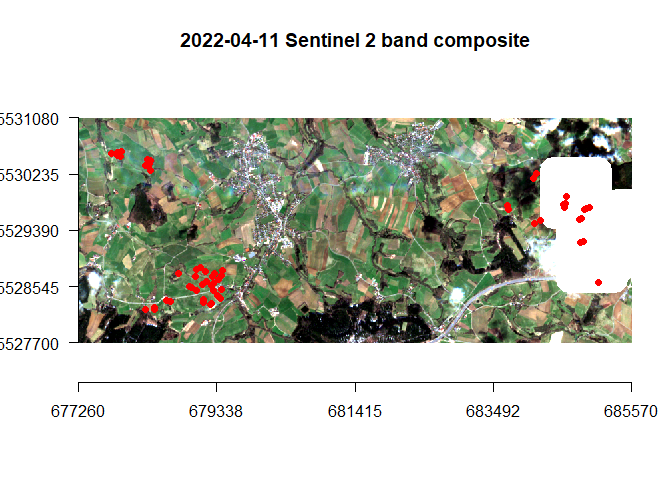
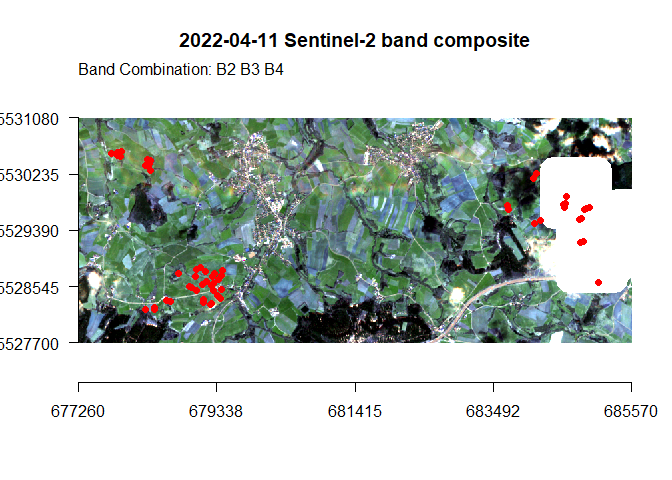
update readme

Changed region(s): [[0.0938, 0.2188, 0.9375, 0.7188], [0.25, 0.0625, 0.5625, 0.125], [0.0938, 0.125, 0.4375, 0.1562]]

diff --git a/README.md b/README.md
@@ -84,8 +84,8 @@ forest model.
 ``` r
 int.ts <- interpolate.ts(refl.df, plot.column = "plot_names") # interpolate missing values
 int.ts <- na.omit(int.ts)
-monthly_max.df <- comp_monthly(int.ts, date.column = "dat", stat = "min") # composite to monthly maximum reflectances
-monthly_max.df.piv <- pivot.df(monthly_max.df) # pivot the data into wide table
+monthly_min.df <- comp_monthly(int.ts, date.column = "dat", stat = "min") # composite to monthly minimum reflectances
+monthly_min.df.piv <- pivot.df(monthly_min.df) # pivot the data into wide table
 ```
 
 In the next step we take a look at the response variable: the
@@ -127,15 +127,16 @@ plt.band_composite(acq, bands = c("B2", "B3", "B4"), study_area, df = div.df, ad
 
     #> NULL
 
-The alpha diversity indices used are the species number, shannon and
-simpson index. Many studies have shown, that species number is the best
-response variable, therefore this alpha-diversity indice will be used in
-the following random forest model. The code to calculate these indices
-is provided in the `data-raw` folder.
+The alpha diversity indices calculated and provided in the `div.df` data
+frame are the species number, shannon and simpson index. Many studies
+have shown, that species number is the best response variable, therefore
+this alpha-diversity indice will be used in the following random forest
+model. The code to calculate these indices is provided in the `data-raw`
+folder in the div.df.R script.
 
 ## II. Train and Test Random Forest
 
-For the training, only the maximum reflectances from the months March to
+For the training, only the minimum reflectances from the months March to
 September are used. The winter months are influenced by clouds and snow
 and are limited by less plant growth/cover, which could potentially
 impact our results negatively.
@@ -144,8 +145,8 @@ impact our results negatively.
 s = 91
 biodiv_ind = "specn"
 
-m.nowinter <- c("03$", "04$", "05$", "06$","07$", "08$", "09$")
-data_frame.nowinter <- RF_predictors(monthly_max.df.piv, m.nowinter) # use only months from March to September
+m.nowinter <- c(3:9)
+data_frame.nowinter <- RF_predictors(monthly_min.df.piv, m.nowinter) # use only months from March to September
 rf_data <- preprocess_rf_data(data_frame.nowinter, div.df, biodiv_ind) # merge reflectance and alpha diversity dataframe
 
 train_index <- get_train_index(rf_data, s = s) # split samples into training and testing (70:30)
@@ -213,34 +214,45 @@ plt.varimp(forest)
 <img src="man/figures/README-Variable Importance-1.png" width="70%" />
 
 `plt.varimp` is an important function to evaluate the predictors
-according to their band, year and month. The SWIR bands and B4 and B5
-are the most important Sentinel-2 bands (A). March is by far the most
-important month in the prediction (D).
+according to their band, year and month. The SWIR bands and the bands in
+the visible domain are the most important Sentinel-2 bands (A). March is
+by far the most important month in the prediction (D).
 
 ## III. Spatial Prediction of Alpha-Diversity
 
 For the spatial prediction, all variables, that trained the random
 forest, need to be stacked to a spatial Raster, on which the species
 number can be predicted. In the case of the random forest trained with
-all summer months, the monthly maximum raster composites of all
+all summer months, the monthly minimum raster composites of all
 acquisitions from March until September 2022 and 2023 respectively need
 to be calculated first. Due to the limited storage capacity, these
 raster composites can’t be part of this package. The code to calculate
-these raster composites is provided in the `data-raw` folder. On
-request, we can make these composites available. The code to calculate
-spatial predictions is provided in the following.
+these raster composites is provided in the `data-raw` folder in the
+`comp.S2.bands.R` script. On request, we can make these composites
+available. The code to calculate spatial prediction maps is provided in
+the following.
 
 ``` r
 
-# select months as predictors 
-m <- c("03.tif", "04.tif", "05.tif", "06.tif","07.tif", "08.tif", "09.tif")
+# select months March to September as predictors 
 comp_path <- "E:/Grasslands_BioDiv/Data/S2_min_composites"
-fls <- list_comp_months(comp_path, m)
+fls <- list_comp_months(comp_path, m.nowinter)
 
-max.brick <- stack_S2_months(fls, comp_path)
+min.brick <- stack_S2_months(fls)
 
-s2_pred <- terra::predict(max.brick, model = forest, na.rm = T)
+s2_pred <- terra::predict(min.brick, model = forest, na.rm = T)
+```
 
+`comp_path` is the path to the directory, where the monthly raster
+composites are stored. After creating a list of these raster composites,
+the rasters are stacked with the terra package and then transformed into
+a brick object. With `predict`, the random forest model `forest` is
+applied to the brick. To mask non-grasslands, we used the High
+Resolution Grassland Layer, provided by Copernicus
+(<https://land.copernicus.eu/en/products/high-resolution-layer-grassland>).
+We used the 2018 product with a 10m spatial resolution:
+
+``` r
 # Mask non-Grasslands with Copernicus Grassland Layer
 grass.mask.path <- "E:/Grasslands_BioDiv/Data/Copernicus_Grassland/GRA_2018_010m_03035_V1_0.tif"
 grass.mask <- terra::rast(grass.mask.path)
@@ -251,13 +263,7 @@ s2_pred.masked <- mask.grasslands(s2_pred, grass.mask)
 plt.diversity(s2_pred.masked, biodiv_ind = "specn")
 ```
 
-<img src="man/figures/README-Spatial Prediction Preprocessing-1.png" width="70%" />
-
-`comp_path` is the path to the directory, where the monthly raster
-composites are stored. After creating a list of these raster composites,
-the rasters are stacked with the terra package and then transformed into
-a brick object. With `predict`, the random forest model `forest` is
-applied to the brick.
+<img src="man/figures/README-unnamed-chunk-2-1.png" width="70%" />
 
 ## IV. Further Resources
 
@@ -270,8 +276,6 @@ is an important step towards a broader understanding of grassland sites,
 how to manage them and protect their valuable ecosystem services.
 
 <img src="man/figures/GrasslandsBiodiv_Flowchart.drawio.png" alt="Analysis Workflow" style="width: 400px;"/>
-
-### Literature:
 
 ### Contact Details:
 
